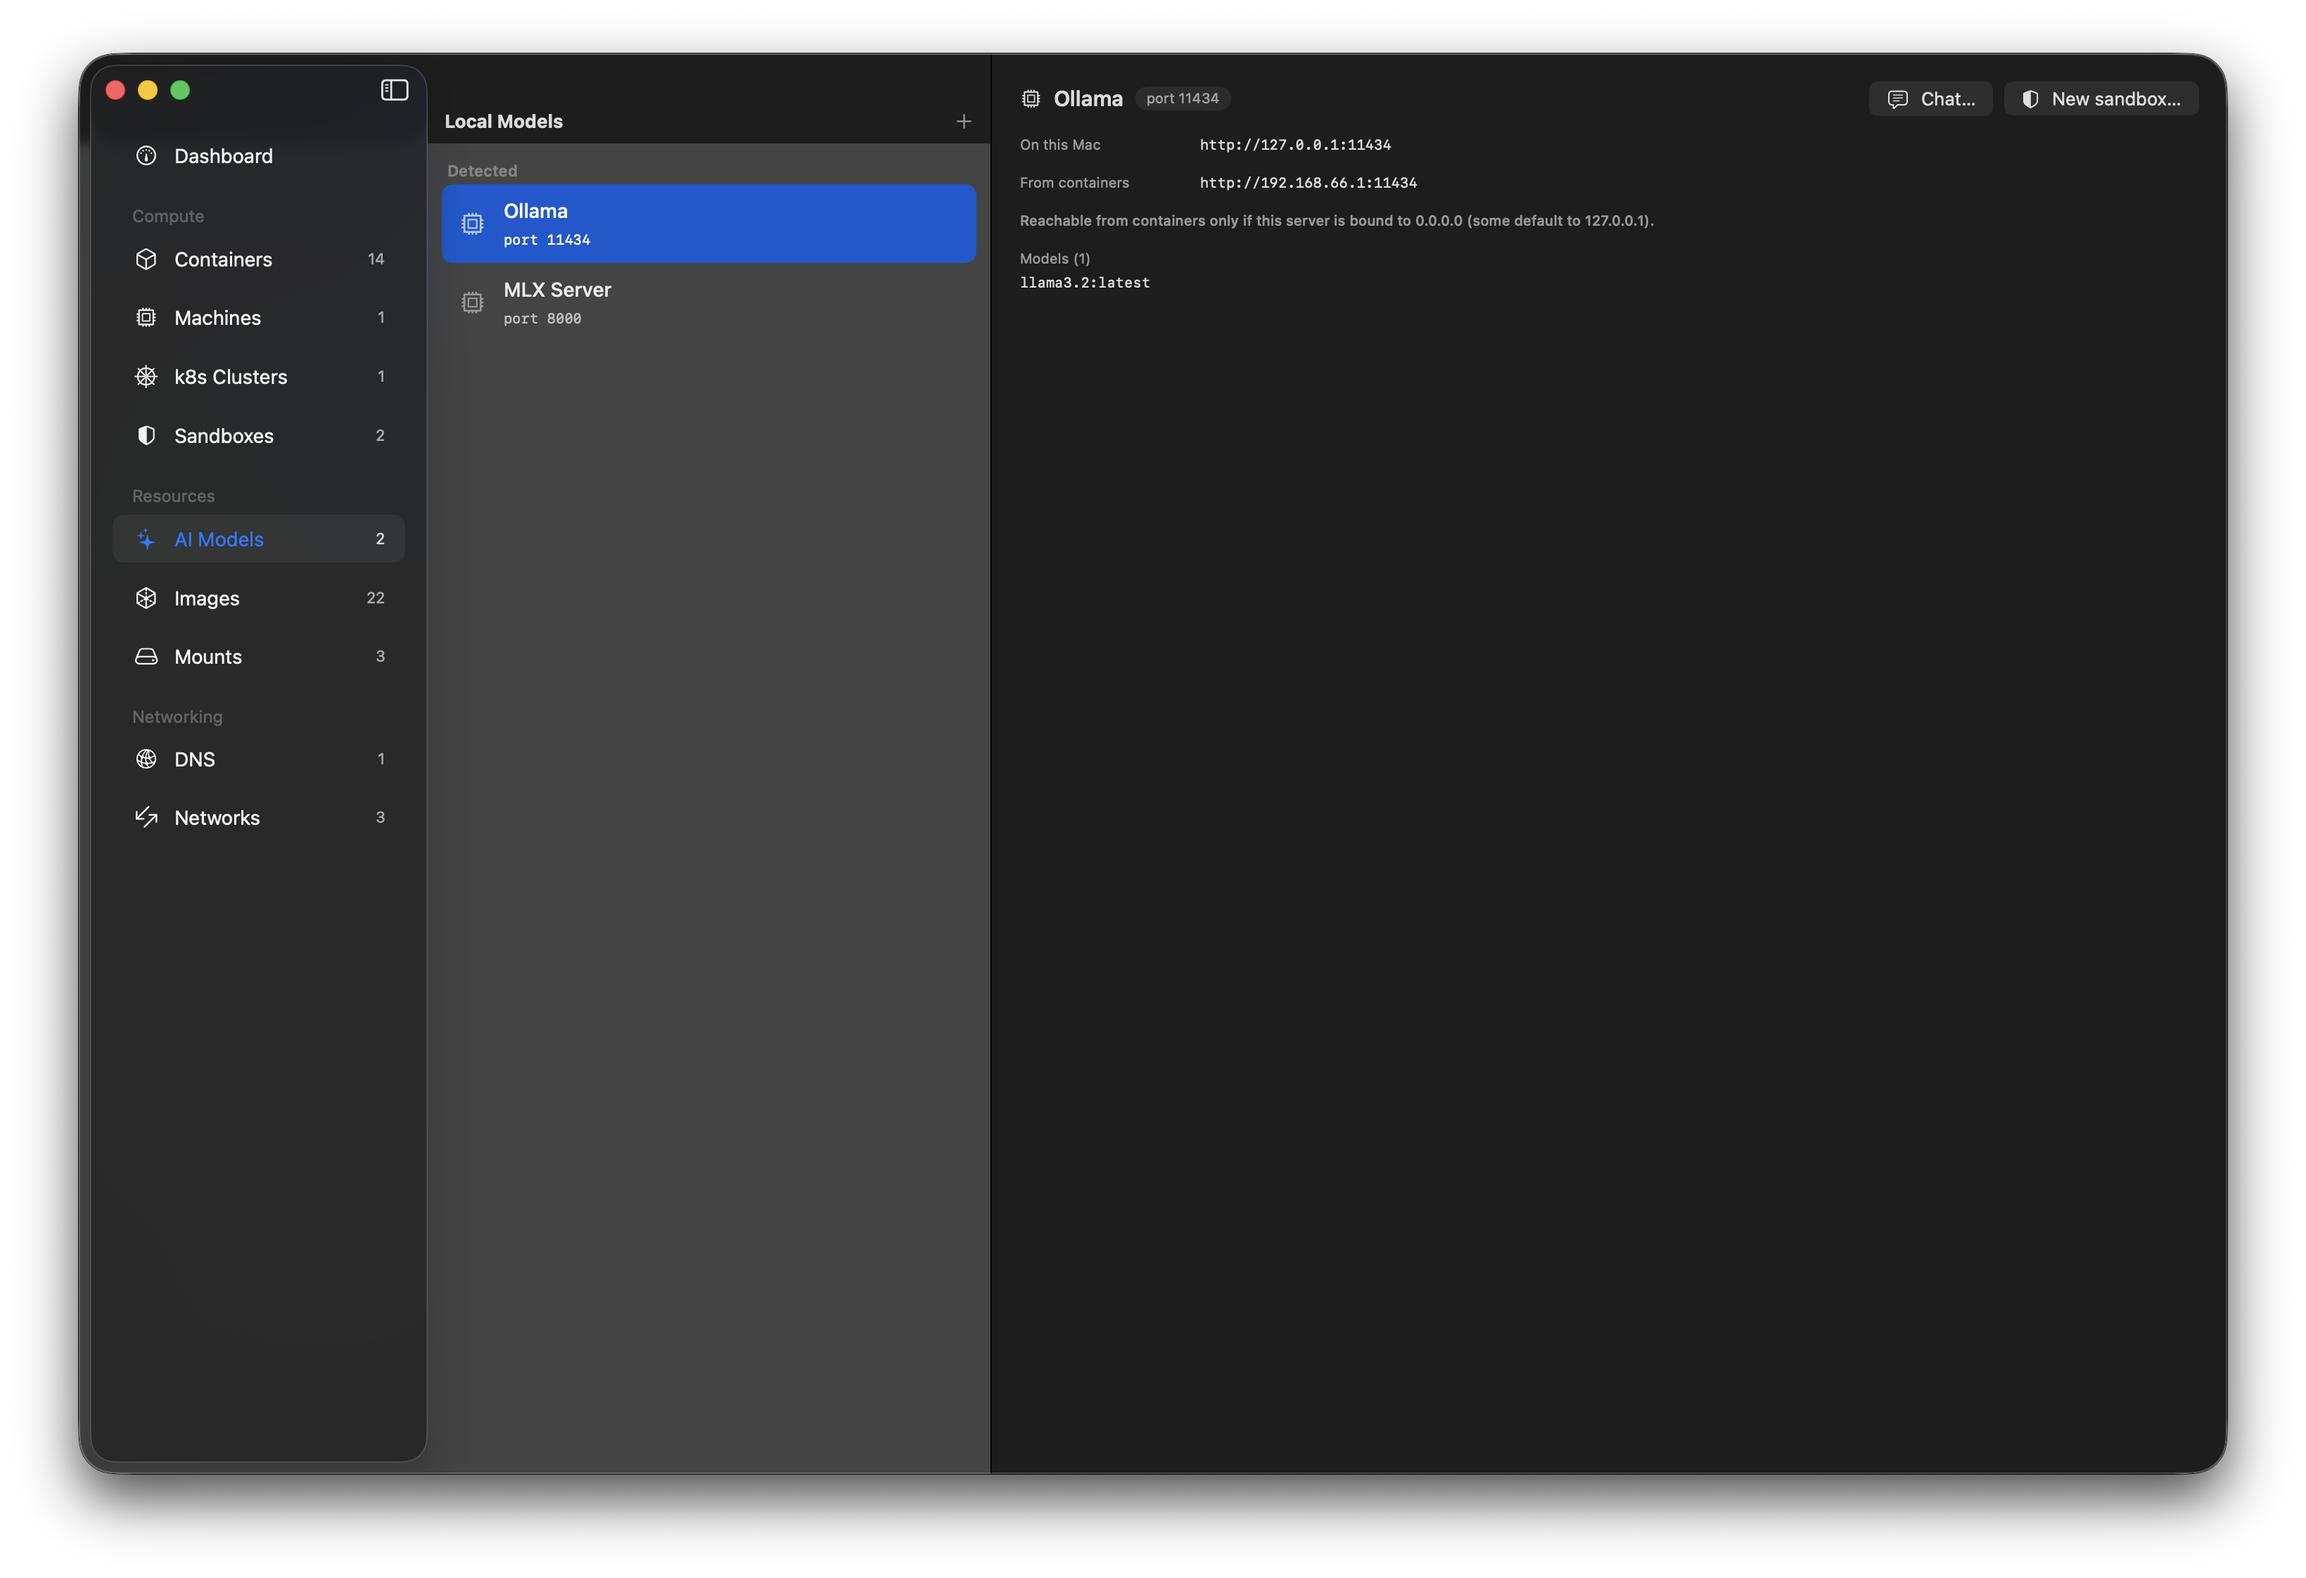
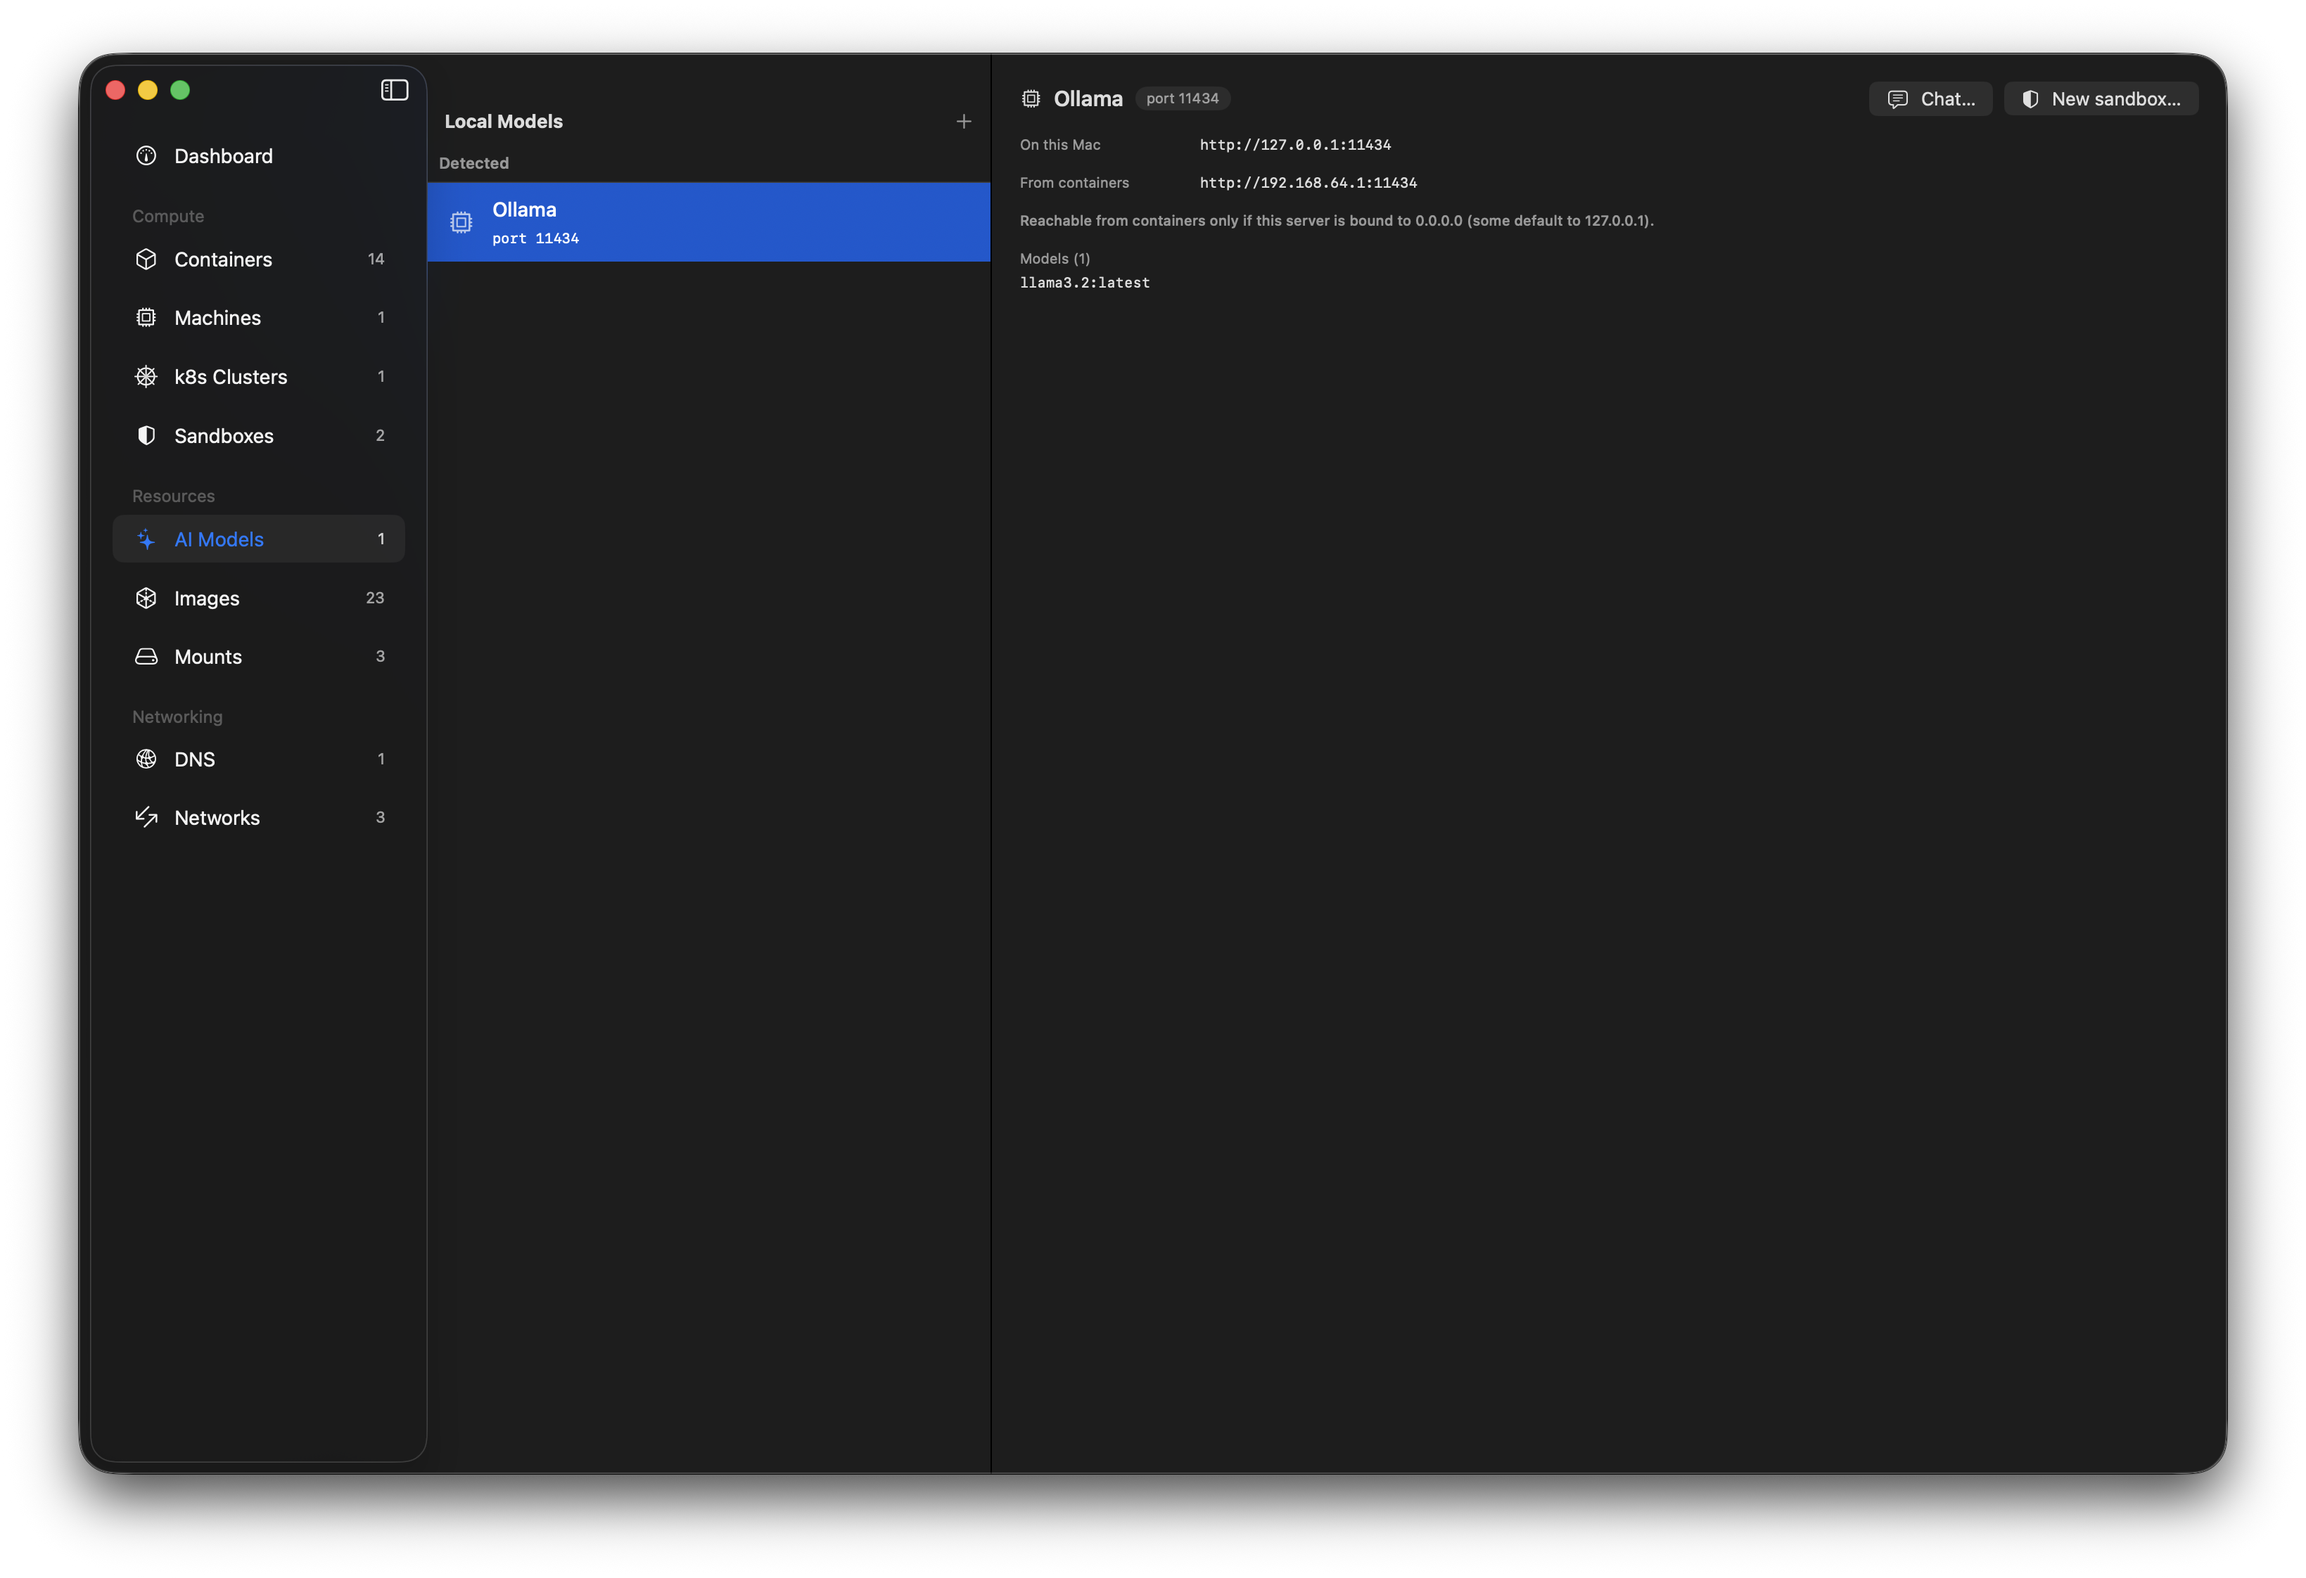
Recapture the Sandboxes and AI Models screenshots
Both were captured before the sidebar-list-style fix landed, so their
middle columns still showed the lighter source-list background. The AI
Models alt text now says a generic local model server, matching the
Ollama instance in the new capture.

Changed region(s): [[0.0311, 0.0936, 0.4356, 0.9358]]

diff --git a/site/index.html b/site/index.html
@@ -215,7 +215,7 @@
         </div>
         <div class="feature-row">
           <div class="feature-text"><h3>Bridge local models into containers</h3><p>Discover MLX, Ollama and LM Studio servers on your Mac - or run your own - and see the endpoint containers use to reach them. Inference stays on the Apple GPU. <a href="ai.html">Learn more →</a></p></div>
-          <img class="zoomable" src="assets/screens/models.png" alt="The AI Models view in Orchard: a detected MLX server with its on-Mac and container-reachable endpoints" />
+          <img class="zoomable" src="assets/screens/models.png" alt="The AI Models view in Orchard: a detected local model server with its on-Mac and container-reachable endpoints" />
         </div>
         <div class="feature-row">
           <div class="feature-text"><h3>Run agents in isolated sandboxes</h3><p>A sandbox is a container wired to a local model on a host-only network: it can reach the model but not the internet, with a local endpoint instead of an API key - and a kill-switch when you're done.</p></div>
